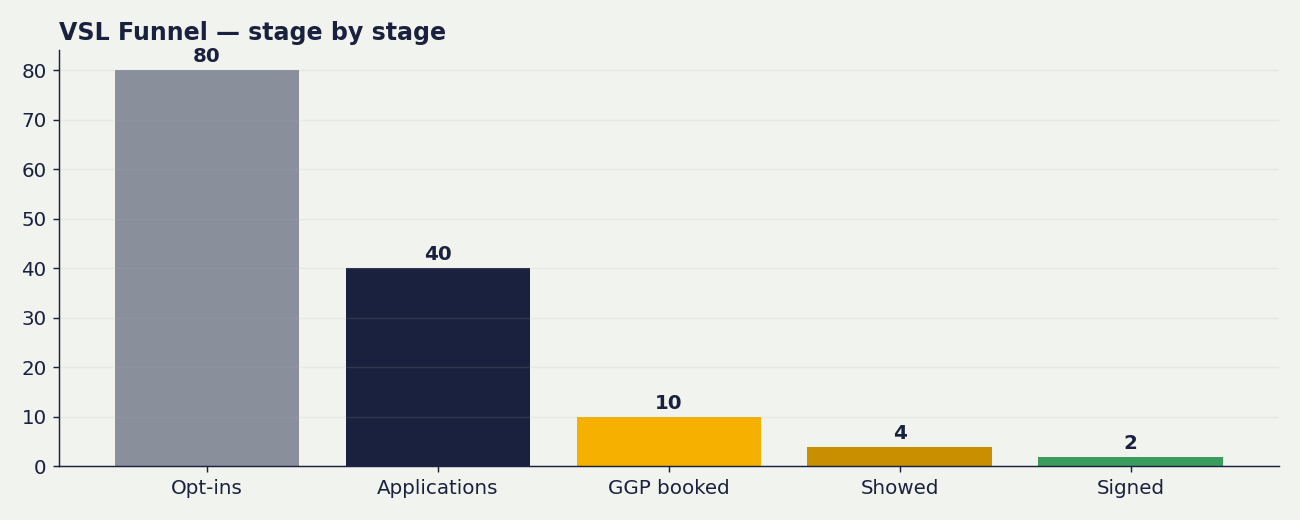
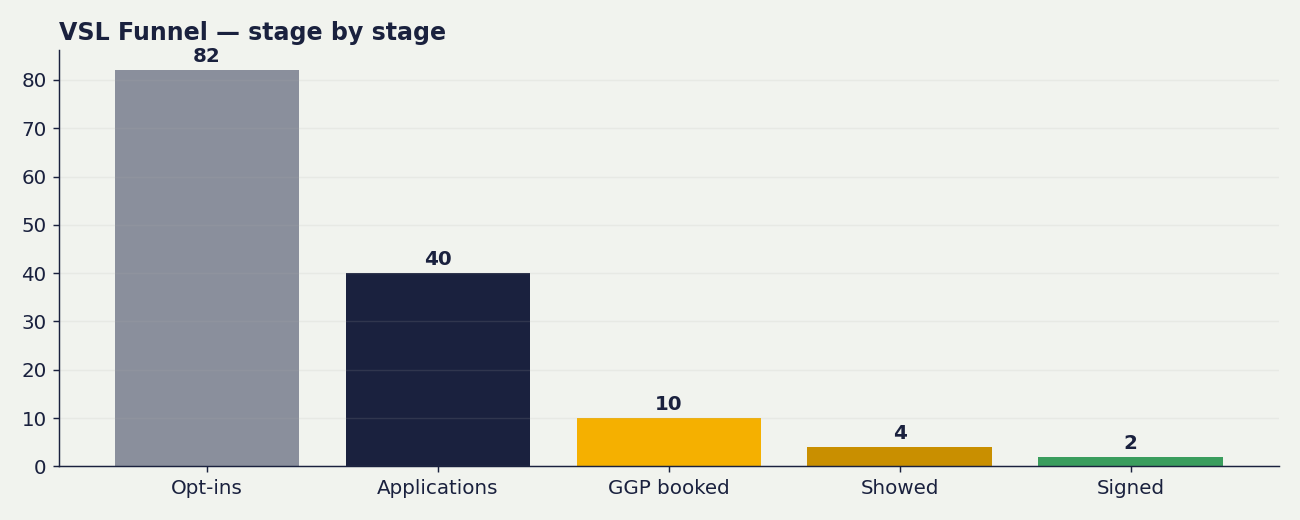
nightly dashboard update 2026-08-05 06:34

diff --git a/content/index.md b/content/index.md
@@ -1,6 +1,6 @@
 # 📈 VSL Funnel Dashboard
 
-_Live from the VSL Applications tracker + Meta. Last updated: 5 Aug 2026, 04:00 BST. Rebuilds nightly._
+_Live from the VSL Applications tracker + Meta. Last updated: 5 Aug 2026, 06:34 BST. Rebuilds nightly._
 
 > Funnel window from 2026-07-07. Attribution = your team's funnel-stage ticks on the Applications tab (the source of truth).
 
@@ -10,7 +10,7 @@ _Live from the VSL Applications tracker + Meta. Last updated: 5 Aug 2026, 04:00 
 
 | Metric | Value |
 |---|---|
-| 💷 Spent | **£1,834.05** |
+| 💷 Spent | **£1,838.61** |
 | 👀 Opt-ins | **82** |
 | 📝 Applications | **40** |
 | 📞 GGPs booked | **10** |
@@ -32,14 +32,14 @@ _Live from the VSL Applications tracker + Meta. Last updated: 5 Aug 2026, 04:00 
 | Cost | Value |
 |---|---|
 | Cost per application | £46 |
-| Cost per GGP booked | £183 |
-| Cost per show-up | £459 |
-| **Cost per acquisition (CPA)** | **£917** |
+| Cost per GGP booked | £184 |
+| Cost per show-up | £460 |
+| **Cost per acquisition (CPA)** | **£919** |
 
 ## Ad spend split
 
-- 🔥 Warm: £925.95
-- ❄ Cold: £908.10
+- 🔥 Warm: £929.66
+- ❄ Cold: £908.95
 
 ---
 
@@ -57,4 +57,4 @@ _Live from the VSL Applications tracker + Meta. Last updated: 5 Aug 2026, 04:00 
 > _Applications + GGP-booked are TRUE daily series (from submission timestamps). Opt-ins have no per-day source in the Opt-ins tab, so opt-ins appear as a total only, not a daily line._
 
 ---
-<!-- Auto-generated by the VSL dashboard nightly pipeline. Do not edit by hand. 5 Aug 2026, 04:00 BST -->
+<!-- Auto-generated by the VSL dashboard nightly pipeline. Do not edit by hand. 5 Aug 2026, 06:34 BST -->
